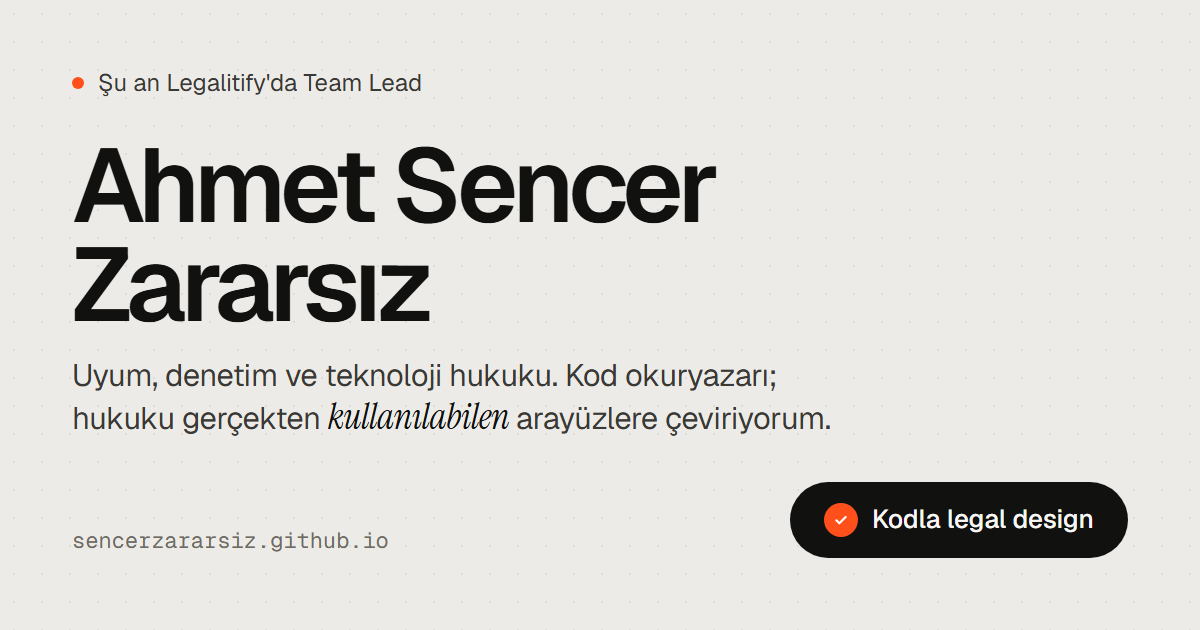
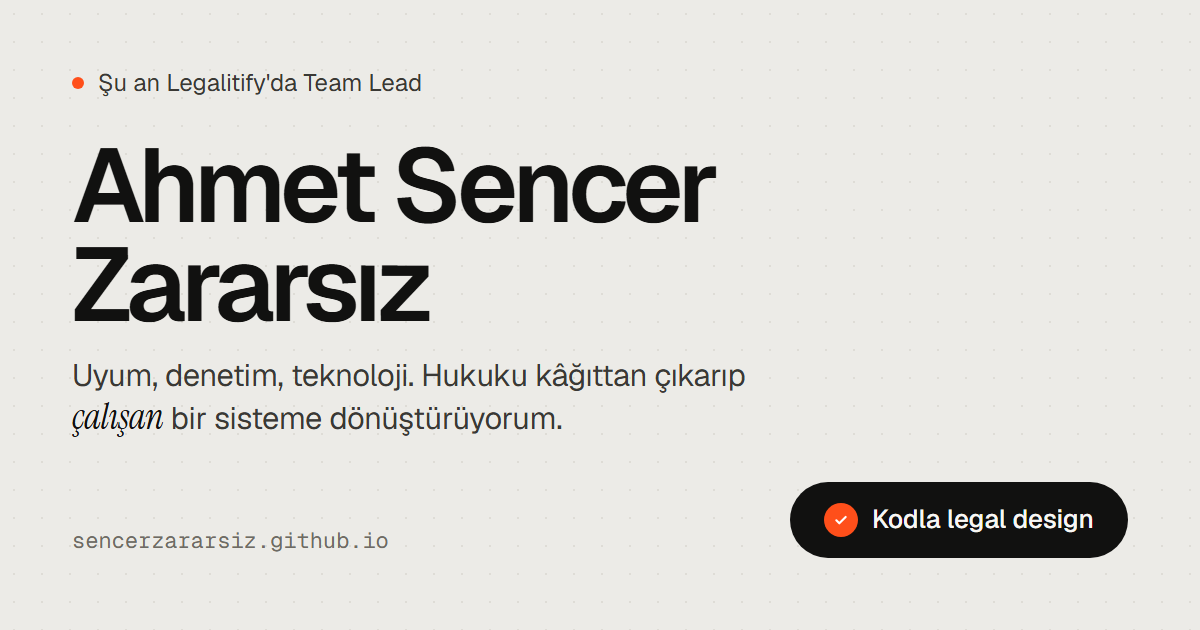
Hero sloganı: 'Uyum, denetim, teknoloji'; kod okuryazarlığı legal engineering kartına taşındı

Changed region(s): [[0.0617, 0.573, 0.6783, 0.6937]]

diff --git a/index.html b/index.html
@@ -60,7 +60,7 @@
       <div>
         <a class="status" href="https://legalitify.com" target="_blank" rel="noopener"><span class="pulse" aria-hidden="true"></span>Şu an Legalitify&#x27;da Team Lead</a>
         <h1 id="h-name"><span class="ln">Ahmet Sencer</span><span class="ln">Zararsız</span></h1>
-        <p class="lead">Uyum, denetim ve teknoloji hukuku üzerine çalışıyorum. Kod okuyup yazabildiğim için hukuku, insanların gerçekten <em>kullanabileceği</em> metinlere, ürünlere ve arayüzlere çeviriyorum.</p>
+        <p class="lead">Uyum, denetim, teknoloji. Hukuku kâğıttan çıkarıp <em>çalışan</em> bir sisteme dönüştürüyorum.</p>
         <div class="cta">
           <a class="btn btn-ink" href="https://www.linkedin.com/in/sencer-ahmet" target="_blank" rel="noopener"><svg viewBox="0 0 24 24" fill="currentColor" aria-hidden="true" focusable="false"><path d="M4.98 3.5a2.5 2.5 0 11-.01 5 2.5 2.5 0 01.01-5zM3 9.75h4V21H3zM9.5 9.75h3.83v1.54h.05c.53-1 1.84-2.06 3.79-2.06 4.05 0 4.8 2.67 4.8 6.13V21h-4v-4.96c0-1.18-.02-2.7-1.65-2.7-1.65 0-1.9 1.29-1.9 2.62V21h-4z"/></svg> LinkedIn profilim</a>
           <a class="btn btn-line" href="/yazilar/">Yazılarım <svg viewBox="0 0 24 24" fill="none" stroke="currentColor" stroke-width="2" stroke-linecap="round" stroke-linejoin="round" aria-hidden="true" focusable="false"><path d="M5 12h14M13 6l6 6-6 6"/></svg></a>
@@ -76,7 +76,7 @@
     </div>
   </section>
 
-  <div class="marquee" role="region" aria-label="Alanlar" tabindex="0"><div class="marquee-track"><ul><li class="">Kişisel verilerin korunması</li><li class="">GDPR</li><li class="">Tüketici hukuku</li><li class="">E-ticaret hukuku</li><li class="">İnternet hukuku</li><li class="">Sosyal medya hukuku</li><li class="hl">Web3 ve kripto varlıklar</li><li class="hl">ISO/IEC 27001</li><li class="">İç denetim</li><li class="">MASAK uyumu</li><li class="">Siber güvenlik</li><li class="">Reklam hukuku</li><li class="">Fikrî mülkiyet</li><li class="">Oyun hukuku</li><li class="">Yapay zekâ</li><li class="hl">Legal Design</li><li class="">LegalOps</li></ul><ul aria-hidden="true"><li class="">Kişisel verilerin korunması</li><li class="">GDPR</li><li class="">Tüketici hukuku</li><li class="">E-ticaret hukuku</li><li class="">İnternet hukuku</li><li class="">Sosyal medya hukuku</li><li class="hl">Web3 ve kripto varlıklar</li><li class="hl">ISO/IEC 27001</li><li class="">İç denetim</li><li class="">MASAK uyumu</li><li class="">Siber güvenlik</li><li class="">Reklam hukuku</li><li class="">Fikrî mülkiyet</li><li class="">Oyun hukuku</li><li class="">Yapay zekâ</li><li class="hl">Legal Design</li><li class="">LegalOps</li></ul></div></div>
+  <div class="marquee" role="region" aria-label="Alanlar" tabindex="0"><div class="marquee-track"><ul><li class="">Kişisel verilerin korunması</li><li class="">GDPR</li><li class="">Tüketici hukuku</li><li class="">E-ticaret hukuku</li><li class="">İnternet hukuku</li><li class="">Sosyal medya hukuku</li><li class="hl">Web3 ve kripto varlıklar</li><li class="hl">ISO/IEC 27001</li><li class="">İç denetim</li><li class="">MASAK uyumu</li><li class="">Siber güvenlik</li><li class="">Reklam hukuku</li><li class="">Fikrî mülkiyet</li><li class="">Oyun hukuku</li><li class="">Yapay zekâ</li><li class="">Kod okuryazarlığı</li><li class="hl">Legal Design</li><li class="">LegalOps</li></ul><ul aria-hidden="true"><li class="">Kişisel verilerin korunması</li><li class="">GDPR</li><li class="">Tüketici hukuku</li><li class="">E-ticaret hukuku</li><li class="">İnternet hukuku</li><li class="">Sosyal medya hukuku</li><li class="hl">Web3 ve kripto varlıklar</li><li class="hl">ISO/IEC 27001</li><li class="">İç denetim</li><li class="">MASAK uyumu</li><li class="">Siber güvenlik</li><li class="">Reklam hukuku</li><li class="">Fikrî mülkiyet</li><li class="">Oyun hukuku</li><li class="">Yapay zekâ</li><li class="">Kod okuryazarlığı</li><li class="hl">Legal Design</li><li class="">LegalOps</li></ul></div></div>
 
   <section class="block" id="hakkimda" aria-labelledby="h-about">
     <div class="wrap about">
@@ -101,8 +101,8 @@
         <article class="card rv">
           <div class="glyph"><svg viewBox="0 0 24 24" fill="none" stroke="currentColor" stroke-width="1.8" stroke-linecap="round" stroke-linejoin="round" aria-hidden="true" focusable="false"><path d="M8 7l-5 5 5 5M16 7l5 5-5 5M13.5 4l-3 16"/></svg></div>
           <div class="tag">Legal engineering</div>
-          <h3>Hukuku ürüne çevirmek</h3>
-          <p>Legaltech ürünlerinin hukuki altyapısı, sektöre göre koşullu metin şablonları, yapay zekâ yönetişimi, LegalOps ve süreç otomasyonu.</p>
+          <h3>Hukuk ve kod, aynı dilde</h3>
+          <p>Kod okuryazarıyım; yazılım ekipleriyle aynı dili konuşur, ürünün hukuki riskini kodundan okurum. Legaltech ürünlerinin hukuki altyapısı, koşullu metin şablonları, yapay zekâ yönetişimi ve LegalOps.</p>
         </article>
         <article class="card rv">
           <div class="glyph"><svg viewBox="0 0 24 24" fill="none" stroke="currentColor" stroke-width="1.8" stroke-linecap="round" stroke-linejoin="round" aria-hidden="true" focusable="false"><path d="M6 3h12a2 2 0 012 2v14a2 2 0 01-2 2H6a2 2 0 01-2-2V5a2 2 0 012-2zM8 8h8M8 12h5M8 16h3"/></svg></div>

diff --git a/en/index.html b/en/index.html
@@ -60,7 +60,7 @@
       <div>
         <a class="status" href="https://legalitify.com" target="_blank" rel="noopener"><span class="pulse" aria-hidden="true"></span>Now: Team Lead at Legalitify</a>
         <h1 id="h-name"><span class="ln">Ahmet Sencer</span><span class="ln">Zararsız</span></h1>
-        <p class="lead">I work on compliance, audit and technology law. Because I can read and write code, I turn law into texts, products and interfaces people can actually <em>use</em>.</p>
+        <p class="lead">Compliance, audit, technology. I take law off the page and turn it into a system that <em>works</em>.</p>
         <div class="cta">
           <a class="btn btn-ink" href="https://www.linkedin.com/in/sencer-ahmet" target="_blank" rel="noopener"><svg viewBox="0 0 24 24" fill="currentColor" aria-hidden="true" focusable="false"><path d="M4.98 3.5a2.5 2.5 0 11-.01 5 2.5 2.5 0 01.01-5zM3 9.75h4V21H3zM9.5 9.75h3.83v1.54h.05c.53-1 1.84-2.06 3.79-2.06 4.05 0 4.8 2.67 4.8 6.13V21h-4v-4.96c0-1.18-.02-2.7-1.65-2.7-1.65 0-1.9 1.29-1.9 2.62V21h-4z"/></svg> My LinkedIn</a>
           <a class="btn btn-line" href="/en/writing/">Writing <svg viewBox="0 0 24 24" fill="none" stroke="currentColor" stroke-width="2" stroke-linecap="round" stroke-linejoin="round" aria-hidden="true" focusable="false"><path d="M5 12h14M13 6l6 6-6 6"/></svg></a>
@@ -76,7 +76,7 @@
     </div>
   </section>
 
-  <div class="marquee" role="region" aria-label="Fields" tabindex="0"><div class="marquee-track"><ul><li class="">Data protection</li><li class="">GDPR</li><li class="">Consumer law</li><li class="">E-commerce law</li><li class="">Internet law</li><li class="">Social media law</li><li class="hl">Web3 &amp; crypto assets</li><li class="hl">ISO/IEC 27001</li><li class="">Internal audit</li><li class="">AML compliance</li><li class="">Cybersecurity</li><li class="">Advertising law</li><li class="">Intellectual property</li><li class="">Games law</li><li class="">AI</li><li class="hl">Legal Design</li><li class="">LegalOps</li></ul><ul aria-hidden="true"><li class="">Data protection</li><li class="">GDPR</li><li class="">Consumer law</li><li class="">E-commerce law</li><li class="">Internet law</li><li class="">Social media law</li><li class="hl">Web3 &amp; crypto assets</li><li class="hl">ISO/IEC 27001</li><li class="">Internal audit</li><li class="">AML compliance</li><li class="">Cybersecurity</li><li class="">Advertising law</li><li class="">Intellectual property</li><li class="">Games law</li><li class="">AI</li><li class="hl">Legal Design</li><li class="">LegalOps</li></ul></div></div>
+  <div class="marquee" role="region" aria-label="Fields" tabindex="0"><div class="marquee-track"><ul><li class="">Data protection</li><li class="">GDPR</li><li class="">Consumer law</li><li class="">E-commerce law</li><li class="">Internet law</li><li class="">Social media law</li><li class="hl">Web3 &amp; crypto assets</li><li class="hl">ISO/IEC 27001</li><li class="">Internal audit</li><li class="">AML compliance</li><li class="">Cybersecurity</li><li class="">Advertising law</li><li class="">Intellectual property</li><li class="">Games law</li><li class="">AI</li><li class="">Code literacy</li><li class="hl">Legal Design</li><li class="">LegalOps</li></ul><ul aria-hidden="true"><li class="">Data protection</li><li class="">GDPR</li><li class="">Consumer law</li><li class="">E-commerce law</li><li class="">Internet law</li><li class="">Social media law</li><li class="hl">Web3 &amp; crypto assets</li><li class="hl">ISO/IEC 27001</li><li class="">Internal audit</li><li class="">AML compliance</li><li class="">Cybersecurity</li><li class="">Advertising law</li><li class="">Intellectual property</li><li class="">Games law</li><li class="">AI</li><li class="">Code literacy</li><li class="hl">Legal Design</li><li class="">LegalOps</li></ul></div></div>
 
   <section class="block" id="about" aria-labelledby="h-about">
     <div class="wrap about">
@@ -101,8 +101,8 @@
         <article class="card rv">
           <div class="glyph"><svg viewBox="0 0 24 24" fill="none" stroke="currentColor" stroke-width="1.8" stroke-linecap="round" stroke-linejoin="round" aria-hidden="true" focusable="false"><path d="M8 7l-5 5 5 5M16 7l5 5-5 5M13.5 4l-3 16"/></svg></div>
           <div class="tag">Legal engineering</div>
-          <h3>Turning law into product</h3>
-          <p>Legal infrastructure for legaltech products, sector-conditional legal text templates, AI governance, LegalOps and process automation.</p>
+          <h3>Law and code, one language</h3>
+          <p>I&#x27;m code-literate: I speak the same language as engineering teams and read a product&#x27;s legal risk from its code. Legal infrastructure for legaltech products, conditional text templates, AI governance and LegalOps.</p>
         </article>
         <article class="card rv">
           <div class="glyph"><svg viewBox="0 0 24 24" fill="none" stroke="currentColor" stroke-width="1.8" stroke-linecap="round" stroke-linejoin="round" aria-hidden="true" focusable="false"><path d="M6 3h12a2 2 0 012 2v14a2 2 0 01-2 2H6a2 2 0 01-2-2V5a2 2 0 012-2zM8 8h8M8 12h5M8 16h3"/></svg></div>

diff --git a/tools/og.html b/tools/og.html
@@ -24,6 +24,6 @@ p em{font-family:var(--serif);font-style:italic;color:#111110;font-size:1.15em}
 <script>
 var en=location.search==="?lang=en";
 document.getElementById('st').textContent=en?'Now: Team Lead at Legalitify':"Şu an Legalitify'da Team Lead";
-document.getElementById('ld').innerHTML=en?'Compliance, audit and technology law. Code-literate: I turn law into interfaces people can actually <em>use</em>.':'Uyum, denetim ve teknoloji hukuku. Kod okuryazarı; hukuku gerçekten <em>kullanılabilen</em> arayüzlere çeviriyorum.';
+document.getElementById('ld').innerHTML=en?'Compliance, audit, technology. I take law off the page and turn it into a system that <em>works</em>.':'Uyum, denetim, teknoloji. Hukuku kâğıttan çıkarıp <em>çalışan</em> bir sisteme dönüştürüyorum.';
 document.getElementById('pl').textContent=en?'Legal design, in code':'Kodla legal design';
 </script></body></html>

diff --git a/build.py b/build.py
@@ -160,14 +160,14 @@ HOME = {
         "desc": "Ahmet Sencer Zararsız. Avukat; teknoloji hukuku, regülasyon uyumu, legaltech ve legal design üzerine çalışıyor. Özgeçmiş, yazılar ve eğitimler.",
         "og_locale": "tr_TR",
         "status": "Şu an Legalitify'da Team Lead",
-        "lead": "Uyum, denetim ve teknoloji hukuku üzerine çalışıyorum. Kod okuyup yazabildiğim için hukuku, insanların gerçekten <em>kullanabileceği</em> metinlere, ürünlere ve arayüzlere çeviriyorum.",
+        "lead": "Uyum, denetim, teknoloji. Hukuku kâğıttan çıkarıp <em>çalışan</em> bir sisteme dönüştürüyorum.",
         "cta1": "LinkedIn profilim",
         "cta2": "Yazılarım",
         "reel_cap": "Bu animasyonun tamamı kod. Tek bir şekil, bir uyum akışını baştan sona anlatıyor.",
         "reel_pause": "Durdur",
         "reel_play": "Oynat",
         "reel_label": "Hareketli gösterim. Sırasıyla: web sitesinde uyum taraması başlatılıyor; tarama üç bulgu buluyor; eşit ağırlıkta Reddet ve Kabul et düğmeleri olan bir çerez paneli; SMS izni için İYS'ye iletilen bir onay anahtarı; KVKK m.5/2-c'ye dayanan uzun bir aydınlatma cümlesi, 'Adresinizi yalnızca siparişinizi teslim etmek için kullanırız' cümlesine sadeleşiyor; mevzuat aramasında 'm.11' yazılınca 'KVKK m.11, İlgili kişinin hakları' bulunuyor; son olarak 'Uyum raporu hazır' bildirimi.",
-        "marquee": ["Kişisel verilerin korunması", "GDPR", "Tüketici hukuku", "E-ticaret hukuku", "İnternet hukuku", "Sosyal medya hukuku", "Web3 ve kripto varlıklar", "ISO/IEC 27001", "İç denetim", "MASAK uyumu", "Siber güvenlik", "Reklam hukuku", "Fikrî mülkiyet", "Oyun hukuku", "Yapay zekâ", "Legal Design", "LegalOps"],
+        "marquee": ["Kişisel verilerin korunması", "GDPR", "Tüketici hukuku", "E-ticaret hukuku", "İnternet hukuku", "Sosyal medya hukuku", "Web3 ve kripto varlıklar", "ISO/IEC 27001", "İç denetim", "MASAK uyumu", "Siber güvenlik", "Reklam hukuku", "Fikrî mülkiyet", "Oyun hukuku", "Yapay zekâ", "Kod okuryazarlığı", "Legal Design", "LegalOps"],
         "marquee_hl": ["Legal Design", "ISO/IEC 27001", "Web3 ve kripto varlıklar"],
         "about_k": "Hakkımda",
         "about_big": "Hukuk fakültesinden sonra yolum mahkeme koridorlarından <em>ürün ekiplerine</em> uzandı.",
@@ -181,7 +181,7 @@ HOME = {
         "approach_p": "Bir metni yazan avukat, onu ürüne döken mühendis, okunur kılan tasarımcı ve başkasına öğreten eğitmen çoğu zaman ayrı kişilerdir. Ben dördünü aynı masada birleştirmeye çalışıyorum.",
         "cards": [
             ("scale", "Hukuk", "Teknoloji, bilişim ve regülasyon", "KVKK ve GDPR uyumu, 7545 sayılı Siber Güvenlik Kanunu, e-ticaret, internet ve reklam mevzuatı, fikrî mülkiyet, arabuluculuk."),
-            ("code", "Legal engineering", "Hukuku ürüne çevirmek", "Legaltech ürünlerinin hukuki altyapısı, sektöre göre koşullu metin şablonları, yapay zekâ yönetişimi, LegalOps ve süreç otomasyonu."),
+            ("code", "Legal engineering", "Hukuk ve kod, aynı dilde", "Kod okuryazarıyım; yazılım ekipleriyle aynı dili konuşur, ürünün hukuki riskini kodundan okurum. Legaltech ürünlerinin hukuki altyapısı, koşullu metin şablonları, yapay zekâ yönetişimi ve LegalOps."),
             ("design", "Legal design", "Okunan ve uygulanan metin", "Sade dil, katmanlı aydınlatma, kullanıcı odaklı sözleşme mimarisi. Hukuki doğruluktan ödün vermeden."),
             ("spark", "Denetim ve uyum", "Yükümlülükten kontrole", "ISO/IEC 27001 BGYS denetimleri, COSO yaklaşımıyla iç kontrol, regülatif risk analizleri, MASAK uyumu ve uyum yol haritaları."),
         ],
@@ -252,14 +252,14 @@ HOME = {
         "desc": "Ahmet Sencer Zararsız. Attorney working on technology law, regulatory compliance, legaltech and legal design. CV, writing and training.",
         "og_locale": "en_US",
         "status": "Now: Team Lead at Legalitify",
-        "lead": "I work on compliance, audit and technology law. Because I can read and write code, I turn law into texts, products and interfaces people can actually <em>use</em>.",
+        "lead": "Compliance, audit, technology. I take law off the page and turn it into a system that <em>works</em>.",
         "cta1": "My LinkedIn",
         "cta2": "Writing",
         "reel_cap": "Every frame of this animation is code. One shape tells a whole compliance flow.",
         "reel_pause": "Pause",
         "reel_play": "Play",
         "reel_label": "Animated demo. In order: a website compliance scan starts; it finds three issues; a cookie panel with equally weighted Reject and Accept buttons; an SMS consent switch sent to İYS; a long privacy sentence based on KVKK Art. 5(2)(c) is simplified to 'We use your address only to deliver your order'; typing 'm.11' in a statute search finds 'KVKK Art. 11, data subject rights'; finally a 'Compliance report ready' notice.",
-        "marquee": ["Data protection", "GDPR", "Consumer law", "E-commerce law", "Internet law", "Social media law", "Web3 & crypto assets", "ISO/IEC 27001", "Internal audit", "AML compliance", "Cybersecurity", "Advertising law", "Intellectual property", "Games law", "AI", "Legal Design", "LegalOps"],
+        "marquee": ["Data protection", "GDPR", "Consumer law", "E-commerce law", "Internet law", "Social media law", "Web3 & crypto assets", "ISO/IEC 27001", "Internal audit", "AML compliance", "Cybersecurity", "Advertising law", "Intellectual property", "Games law", "AI", "Code literacy", "Legal Design", "LegalOps"],
         "marquee_hl": ["Legal Design", "ISO/IEC 27001", "Web3 & crypto assets"],
         "about_k": "About",
         "about_big": "After law school, my path ran from courtroom corridors to <em>product teams</em>.",
@@ -273,7 +273,7 @@ HOME = {
         "approach_p": "The lawyer who drafts a text, the engineer who ships it as a product, the designer who makes it readable and the trainer who teaches it are usually different people. I try to bring all four to the same desk.",
         "cards": [
             ("scale", "Law", "Technology, IT and regulation", "KVKK and GDPR compliance, Cybersecurity Law No. 7545, e-commerce, internet and advertising rules, intellectual property, mediation."),
-            ("code", "Legal engineering", "Turning law into product", "Legal infrastructure for legaltech products, sector-conditional legal text templates, AI governance, LegalOps and process automation."),
+            ("code", "Legal engineering", "Law and code, one language", "I'm code-literate: I speak the same language as engineering teams and read a product's legal risk from its code. Legal infrastructure for legaltech products, conditional text templates, AI governance and LegalOps."),
             ("design", "Legal design", "Text that gets read and used", "Plain language, layered privacy notices, user-centred contract architecture, without giving up legal accuracy."),
             ("spark", "Audit and compliance", "From obligation to control", "ISO/IEC 27001 ISMS audits, internal control with a COSO approach, regulatory risk analyses, AML compliance and compliance roadmaps."),
         ],
